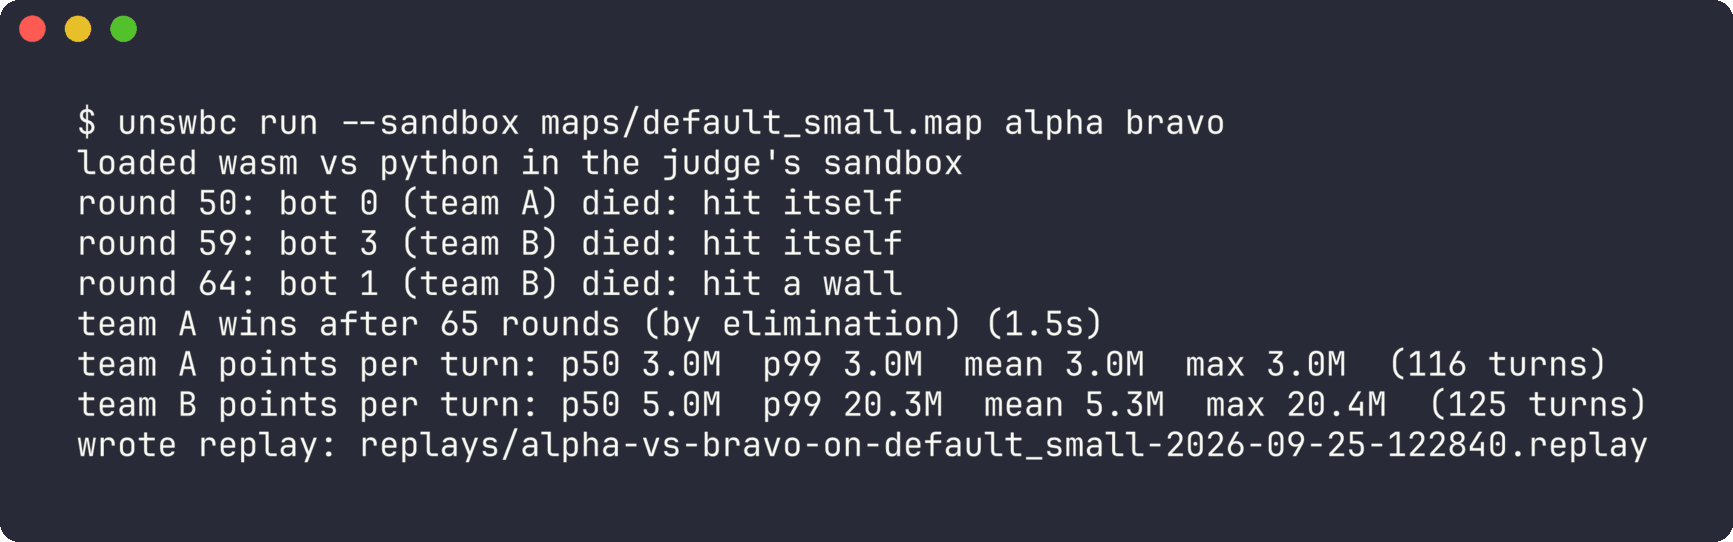
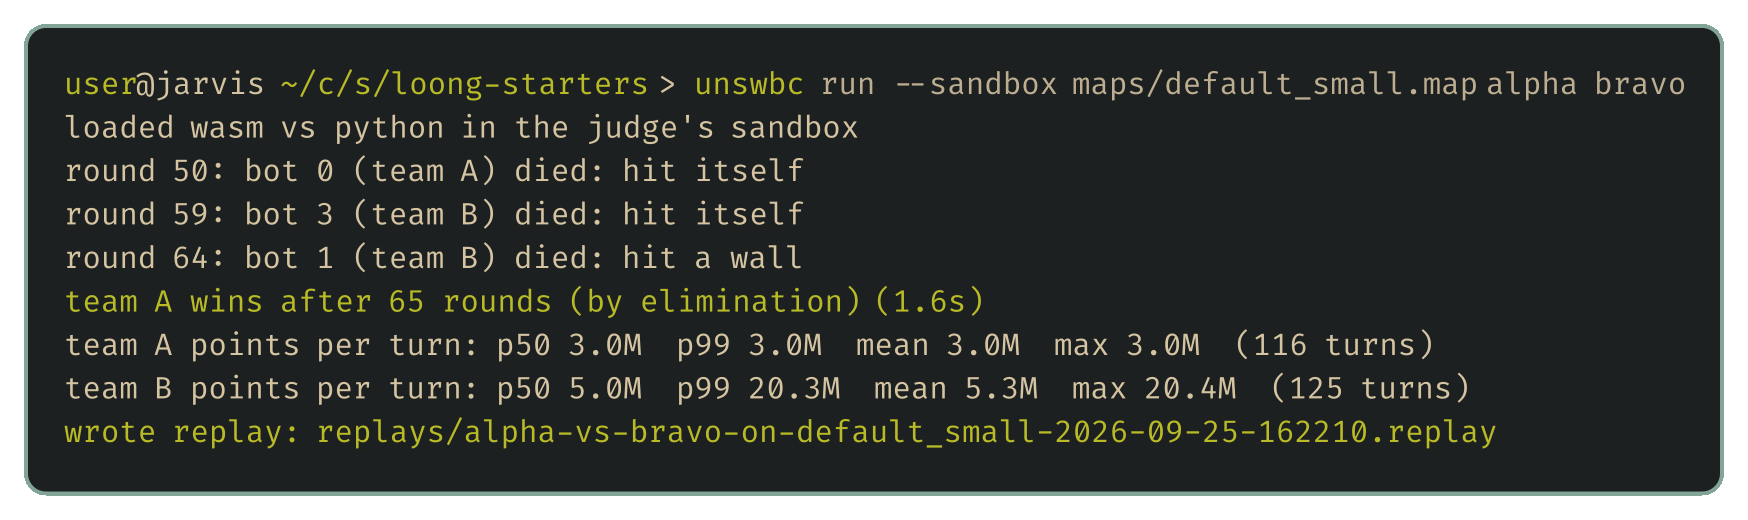
capture terminal figures from real fish and kitty output, and use declarative headings

Changed region(s): [[0.0, 0.0, 1.0, 1.0]]

diff --git a/tools/terminal_capture.py b/tools/terminal_capture.py
@@ -1,0 +1,134 @@
+"""Record fish commands as they appear in Kieran's kitty and render them as a PNG.
+
+Each command runs in a pseudo-terminal, so the fish prompt, fish's own syntax
+highlighting and each program's colours are real. The capture is drawn as a
+kitty window under Hyprland: gruvbox dark hard (stylix base16), FiraCode Nerd
+Font, 2px active border and 10px rounding.
+
+    python3 tools/terminal_capture.py --cwd DIR --output out.png -- 'command' ...
+"""
+
+import argparse
+import html
+import os
+import re
+import subprocess
+import tempfile
+from pathlib import Path
+
+import pyte
+
+# kitty-gruvbox-dark-hard.conf from nixos-config home/users/user/programs/terminal.nix
+BACKGROUND    = "#1d2021"
+FOREGROUND    = "#d5c4a1"
+ACTIVE_BORDER = "#83a598"  # stylix sets Hyprland's col.active_border to base0D
+ANSI_COLOURS  = ["#1d2021", "#fb4934", "#b8bb26", "#fabd2f", "#83a598", "#d3869b", "#8ec07c", "#d5c4a1",
+                 "#504945", "#fb4934", "#b8bb26", "#fabd2f", "#83a598", "#d3869b", "#8ec07c", "#fbf1c7"]
+FONT          = "FiraCode Nerd Font"
+FONT_SIZE     = 15
+CELL_WIDTH    = FONT_SIZE * 0.6
+LINE_HEIGHT   = FONT_SIZE * 1.45
+PADDING       = 18
+BORDER        = 2
+ROUNDING      = 10
+MARGIN        = 12
+
+TERMINAL_COLUMNS = 120
+PYTE_COLOUR_NAMES = {"default": FOREGROUND} | {
+    ("bright" if index >= 8 else "") + name: ANSI_COLOURS[index]
+    for index, name in enumerate(["black", "red", "green", "brown", "blue", "magenta", "cyan", "white"] * 2)
+}
+
+
+def run_in_pseudo_terminal(fish_source, cwd, script_directory):
+    script = Path(script_directory) / "step.fish"
+    script.write_text(fish_source)
+    environment = dict(os.environ, TERM="xterm-kitty", COLUMNS=str(TERMINAL_COLUMNS), LINES="50")
+    result = subprocess.run(["script", "-qec", f"stty cols {TERMINAL_COLUMNS} rows 50; fish {script}", "/dev/null"], cwd=cwd,
+                            env=environment, capture_output=True)
+    return result.stdout.decode()
+
+
+def record_commands_as_ansi(commands, cwd):
+    transcript = ""
+    with tempfile.TemporaryDirectory() as script_directory:
+        for command in commands:
+            source = Path(script_directory) / "command.fish"
+            source.write_text(command)
+            transcript += run_in_pseudo_terminal("fish_prompt", cwd, script_directory)
+            highlighted = run_in_pseudo_terminal(f"fish_indent --ansi {source}", cwd, script_directory)
+            transcript += highlighted.rstrip("\r\n") + "\n"
+            transcript += run_in_pseudo_terminal(command, cwd, script_directory)
+    return transcript
+
+
+def ansi_to_styled_lines(transcript):
+    """Play the transcript through a VT emulator and return lines of (text, colour, bold) runs."""
+    screen = pyte.Screen(TERMINAL_COLUMNS, transcript.count("\n") + 2)
+    screen.set_mode(pyte.modes.LNM)
+    pyte.Stream(screen).feed(transcript)
+    lines = []
+    for row in range(screen.lines):
+        line = screen.buffer[row]
+        runs = []
+        for column in range(screen.columns):
+            character = line[column]
+            colour = PYTE_COLOUR_NAMES.get(character.fg)
+            if colour is None:
+                colour = "#" + character.fg if re.fullmatch(r"[0-9a-f]{6}", character.fg) else FOREGROUND
+            if runs and runs[-1][1:] == (colour, character.bold):
+                runs[-1] = (runs[-1][0] + character.data, colour, character.bold)
+            else:
+                runs.append((character.data, colour, character.bold))
+        text = "".join(run[0] for run in runs).rstrip()
+        while runs and len("".join(run[0] for run in runs)) > len(text):
+            excess = len("".join(run[0] for run in runs)) - len(text)
+            last = runs.pop()
+            if len(last[0]) > excess:
+                runs.append((last[0][: len(last[0]) - excess], last[1], last[2]))
+        lines.append(runs)
+    while lines and not lines[-1]:
+        lines.pop()
+    return lines
+
+
+def render_kitty_window_svg(lines):
+    columns = max((sum(len(run[0]) for run in line) for line in lines), default=0)
+    inner_width = columns * CELL_WIDTH + 2 * PADDING
+    inner_height = len(lines) * LINE_HEIGHT + 2 * PADDING
+    width, height = inner_width + 2 * (BORDER + MARGIN), inner_height + 2 * (BORDER + MARGIN)
+    parts = [
+        f'<svg xmlns="http://www.w3.org/2000/svg" width="{width:.0f}" height="{height:.0f}"'
+        f' font-family="{FONT}" font-size="{FONT_SIZE}">',
+        f'<rect x="{MARGIN + BORDER / 2}" y="{MARGIN + BORDER / 2}" width="{inner_width + BORDER}"'
+        f' height="{inner_height + BORDER}" rx="{ROUNDING}" fill="{BACKGROUND}"'
+        f' stroke="{ACTIVE_BORDER}" stroke-width="{BORDER}"/>',
+    ]
+    for row, line in enumerate(lines):
+        y = MARGIN + BORDER + PADDING + row * LINE_HEIGHT + FONT_SIZE
+        column = 0
+        for text, colour, bold in line:
+            weight = ' font-weight="bold"' if bold else ""
+            # Place each word at its own cell: renderers draw spaces narrower than a cell.
+            for word in re.finditer(r"\S+", text):
+                x = MARGIN + BORDER + PADDING + (column + word.start()) * CELL_WIDTH
+                parts.append(f'<text x="{x:.1f}" y="{y:.1f}" fill="{colour}"{weight}>'
+                             f"{html.escape(word.group())}</text>")
+            column += len(text)
+    parts.append("</svg>")
+    return "\n".join(parts)
+
+
+def main():
+    parser = argparse.ArgumentParser(description=__doc__)
+    parser.add_argument("--cwd", type=Path, required=True)
+    parser.add_argument("--output", type=Path, required=True)
+    parser.add_argument("commands", nargs="+")
+    arguments = parser.parse_args()
+    svg = render_kitty_window_svg(ansi_to_styled_lines(record_commands_as_ansi(arguments.commands, arguments.cwd)))
+    subprocess.run(["rsvg-convert", "--zoom", "2", "--output", str(arguments.output)],
+                   input=svg.encode(), check=True)
+
+
+if __name__ == "__main__":
+    main()

diff --git a/blog/01-the-wishlist.md b/blog/01-the-wishlist.md
@@ -8,7 +8,7 @@ The [last post](00-the-loong-game.md) got the official toolkit installed and a f
 
 `unswbc init` gives you a starter bot in C, C++ or Python. I made a C one called `alpha` and a Python one called `bravo`, and played them against each other in the judge's sandbox:
 
-![Terminal output of unswbc run --sandbox on default_small with alpha against bravo. Three dragons die, one by hitting itself, one by hitting a wall. Team A wins after 65 rounds by elimination. Team A used 3.0M points per turn at p50, p99 and max. Team B used 5.0M at p50, 20.3M at p99 and 20.4M at max.](images/unswbc-run.png)
+![A terminal running unswbc run --sandbox on default_small with alpha against bravo. Three dragons die, one by hitting itself, one by hitting a wall. Team A wins after 65 rounds by elimination. Team A used 3.0M points per turn at p50, p99 and max. Team B used 5.0M at p50, 20.3M at p99 and 20.4M at max.](images/unswbc-run.png)
 
 That's a lot of useful information for one command. You get the winner, how each dragon died, and how many CPU points each team spent per turn. There's also a replay you can open in the [visualiser](https://game.battlecode.au/visualiser).
 
@@ -22,17 +22,9 @@ That's a good thing for debugging, since you can reproduce any game. It does mea
 
 ## A hand-rolled round robin
 
-So here's the next obvious step, a loop over all 11 bundled maps with both bots taking each side:
+So here's the next obvious step, a fish loop over all 11 bundled maps with both bots taking each side:
 
-```sh
-for map in maps/*.map; do
-  for pair in "alpha bravo" "bravo alpha"; do
-    echo "$map ($pair): $(unswbc run --sandbox --no-replay "$map" $pair | grep -o 'team . wins')"
-  done
-done
-```
-
-![Terminal output of the loop: 22 results, one per map and side, taking 1 minute 19 seconds.](images/unswbc-loop.png)
+![A terminal showing loop.fish in bat, then time fish loop.fish printing 22 results, one per map and side, in 57.8 seconds.](images/unswbc-loop.png)
 
 `alpha` won 12 of the 22 games. Is it better? No. Both bots run the same random walk, just in different languages. Some maps look like strong evidence on their own. On `default`, `bravo` won from both sides. On `default_small`, whoever was team A won both times. They're still just noise.
 
@@ -40,15 +32,15 @@ done
 
 ![Games needed to detect a better bot at 95% confidence and 80% power, by its true win rate: about 3,900 at 52%, 617 at 55%, 153 at 60%, 37 at 70% and 23 at 75%. A 22-game loop only catches bots that win about 75% of the time or more.](images/games-needed.svg)
 
-The question "did my change help?" is really a statistics question, and a `grep` loop can't answer it.
+The question "did my change help?" is really a statistics question, and a shell loop can't answer it.
 
-## And it gets slow
+## It gets slow
 
-Those 22 games took 1 minute 19 seconds, and the starter bots barely think. They also die early, so no game got anywhere near the 500-round limit. Real bots are a different story. In one of my recent offline ladders, 600 games between stronger bots took a median of 17 seconds each. One in ten went past four minutes, and the longest took over nine. Played back to back, that ladder is 14 hours of games.
+Those 22 games took 58 seconds, and the starter bots barely think. They also die early, so no game got anywhere near the 500-round limit. Real bots are a different story. In one of my recent offline ladders, 600 games between stronger bots took a median of 17 seconds each. One in ten went past four minutes, and the longest took over nine. Played back to back, that ladder is 14 hours of games.
 
 Your machine has more than one core, and games are independent, so they should run in parallel. Doing that properly means more than adding `&`. You need to cap how many games run at once, keep one hung game from blocking the batch, clean up the child processes when something dies, and keep crashes and timeouts apart from genuine losses.
 
-## Why not just use the ladder?
+## The ladder is the wrong test bench
 
 The online ladder already plays lots of games, but it's a poor way to test a change:
 
@@ -68,7 +60,7 @@ This bit me already. The docs say maps are at least 10 tiles on a side, and my b
 
 Every ladder battle is public, and game IDs on the site are already past 88,000. That's a huge record of what other bots do: how they open, whether they split early, how they use sonar, how they die. Nobody's going to watch 88,000 games in the visualiser, though, and the replay files aren't something you can grep:
 
-![A hexdump of a replay file. It is packed binary, with fragments of the map text and bot names visible.](images/replay-hexdump.png)
+![hexyl showing the first 160 bytes of a replay file. It is packed binary, with the bot names and fragments of the map text visible.](images/replay-hexdump.png)
 
 A replay is a packed binary file. You can make out the bot names and the map text, but not much else. Using the archive means downloading it politely, decoding the format, and rebuilding the game state turn by turn. Only then can you ask it questions.
 
